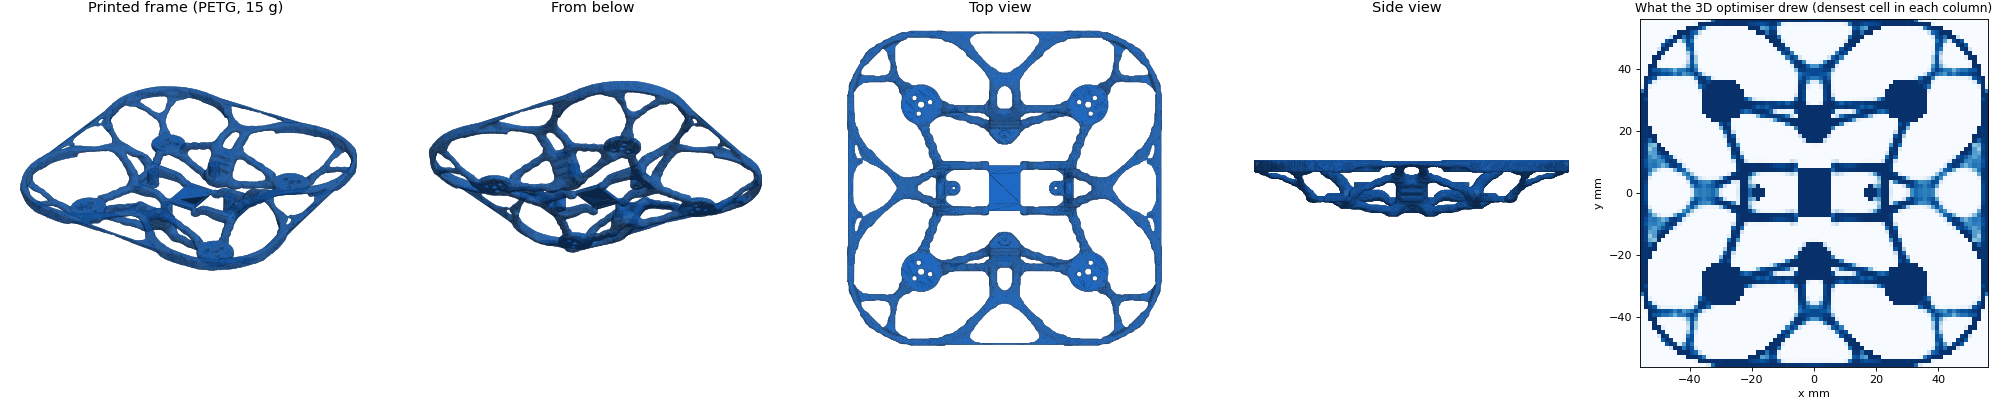
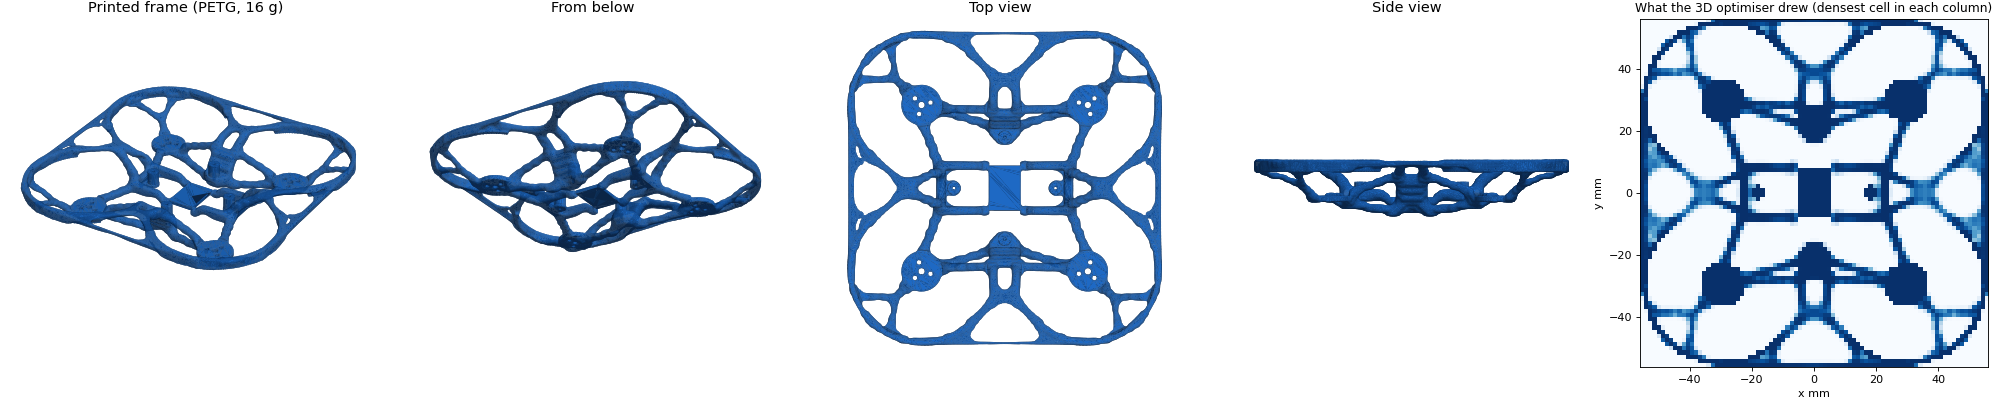
Rewrite the README for v0.2
The README still described v0.1: ducts, an 18 g frame printed without
supports, 45 g ready to fly. It now covers the v0.2 frame (16 g in PETG,
14 g in PA6-CF, 43 g ready to fly, 3.7 min), why it changed, the filament
comparison, what the checks show today (including the two print checks
that fail), and how to rerun the optimiser. Every statement was checked
against the records. The image is re-rendered from the current frame, with
its rim bridges.

diff --git a/README.md b/README.md
@@ -1,68 +1,160 @@
 # PETGasus
 
-A small 3D-printed quadcopter for an adult and a kid to build together. It needs no soldering, prints in one piece in PETG, and flies by sight (no camera or goggles), mostly indoors.
+A small 3D-printed quadcopter for an adult and a kid to build together. It needs no soldering, is designed to print in one piece, and flies by sight (no camera or goggles), mostly indoors.
 
 **[See the design explained, with a 3D build-along →](https://neuman.github.io/PETGasusDrone/)**
 
-![The printed frame, its top view, and the topology optimiser's density field it was drawn from](docs/images/frame.png)
+![The v0.2 frame in perspective, from below, from above and from the side, and the 3D topology optimiser's density field it was drawn from](docs/images/frame.png)
 
 | | |
 |---|---|
-| Frame | 108 × 108 × 15 mm, one PETG print, ~18 g, no supports |
-| Ready to fly | ~45 g, under the FAA's 250 g registration line |
-| Props | 45 mm, each spinning inside its own duct |
-| Flight time | ~3.9 min per 1S 320 mAh battery (estimate) |
-| Electronics | Taken from a BetaFPV Meteor75 Pro kit: plug-in motors, no soldering |
+| Frame | 112 × 112 × 20 mm, one piece, to print with tree supports (not printed yet): ~16 g in PETG, ~14 g in nylon-CF (PA6-CF) |
+| Ready to fly | ~43 g, under the FAA's 250 g registration line |
+| Props | 45 mm, each guarded round its outer side by a solid band about 4 mm tall |
+| Flight time | ~3.7 min per 1S 320 mAh battery (estimate) |
+| Electronics | Taken from a BetaFPV Meteor75 Pro II O4 kit: plug-in motors, no soldering |
 | Control | ExpressLRS radio, Betaflight flight software, self-levelling mode |
-| Cost | $167 for everything, including radio, batteries and charger; $156 for the essentials (everything but the spare props and the strap) |
+| Cost | $167 for the full parts list, including radio, batteries and charger; $156 for the essentials (everything but the spare props and the strap). Both before shipping, at 7 October 2026 prices |
 
 ## Build one
 
 - **[BUILD_GUIDE.md](BUILD_GUIDE.md)** covers the shopping list, the two measurements to take before printing, print settings, assembly, radio binding, Betaflight setup and first flights.
 - **Print files:** [`build/print/frame.3mf`](build/print/frame.3mf) for Snapmaker Orca, Bambu Studio or PrusaSlicer, and [`build/print/frame.stl`](build/print/frame.stl) for anything else.
 
+## Version 0.2: what changed, and why
+
+Version 0.1 had a flat plate, tall ducts with lattice windows, and ribs and spokes
+drawn from a 2.5D optimiser. Posted to r/diydrones, it was reviewed as "still a
+2D design": flat planks butting into each other with no gussets, right angles
+that printed PETG is weak at, ducts tall enough to make propwash, windows that
+added weight, and a frame expected to break after a couple of crashes. The
+review, paraphrased, is in [`inputs/references/`](inputs/references/diydrones-feedback-2026-10-17.md).
+
+Version 0.2 answers it:
+
+- **The frame is a 3D shape found by a topology optimiser**, not drawn by hand.
+  It is told where the motors, props, board, battery and leads must be, what
+  must stay empty, and thirteen ways the frame gets loaded (full thrust, two
+  prop strikes, crashes on the guards from nine directions, and the battery).
+  It decides where a 12 g budget of plastic carries those loads best. The model
+  draws the result as one smooth solid with a fillet at every joint.
+- **Low guards replace the ducts.** Each prop has a solid band about 4 mm tall
+  round the side that meets walls. The optimiser decides what joins them: it
+  closed the four into one rounded rim and tied each motor seat to it with
+  V-shaped spokes.
+- **It prints flat, as it flies, with tree supports.** A scan of print poses on
+  CalculiX's crash stresses found that printing flat loses no strength to the
+  layers: the worst crash tension runs along them. Poses tilted 75-105° would
+  lose up to 14 %.
+- **The filament was chosen by the numbers.** Seven filaments the Snapmaker U1
+  can print went through the same CalculiX vibration and crash checks on the
+  same shape (below).
+- **Published numbers replace guesses.** The kit motor's own load table
+  (66.6 g of thrust, not 46.3 g) and its height (13.6 mm) came from BetaFPV.
+  The flight controller's shape (a cross about 40 mm tip to tip, with its motor
+  sockets underneath) is measured from BetaFPV's photos. The build guide asks
+  you to check it on the real board (A4).
+
+### Which filament
+
+| Filament | Frame | First vibration mode | Drop onto a guard | Wall hit |
+|---|---|---|---|---|
+| **PA6-CF** (the strong print) | 13.8 g | 196 Hz | 8.1 m | 3.7 m/s |
+| PAHT-CF | 13.4 g | 193 Hz | 7.8 m | 3.4 m/s |
+| **PETG** (the everyday print) | 16.2 g | 143 Hz | 2.0 m | 1.7 m/s |
+| ASA | 13.3 g | 176 Hz | 2.0 m | 1.6 m/s |
+| PETG with TPU 95A guard arcs | 16.1 g | 136 Hz | 1.9 m | 1.6 m/s |
+| PETG-CF | 15.8 g | 146 Hz | 1.6 m | 1.6 m/s |
+| PLA | 15.7 g | 169 Hz | 1.6 m | 1.5 m/s |
+| *Limit* | | *200 Hz* | *1 m* | *3 m/s* |
+
+PETG is the everyday filament: it needs nothing extra on the U1 and clears the
+1 m drop. Only the two nylon-CF filaments clear both crash limits, so the crash
+claims (C15, C16) are judged in PA6-CF. No filament reaches C4's 200 Hz. The
+bar stays, in the flight-proven milestone with the hover, thrust and crash tests
+on the real drone. The reasons for each rejection are in
+[`decisions/petg-for-everyday-prints-pa6-cf-for-strong-ones.json`](decisions/petg-for-everyday-prints-pa6-cf-for-strong-ones.json).
+
+The crash numbers are a floor, not a prediction: they ignore the plastic work
+the filament does before it cracks, the floor's give and damping. They also
+move by up to 20 % from one run to the next, because the tet mesher does not
+give the same mesh twice. Fixing that is the next job.
+
 ## How the frame was designed
 
-The plate that holds the motors came out of a 2.5D topology optimisation (SIMP: plate bending plus in-plane stiffness, a hover load and a crash load). The optimiser's raw field had 0.75 mm blades, which are too thin to print. So its load path was redrawn as printable ribbed spokes, and that exact printed shape was checked again with the same finite-element model.
+[`model/topopt3d.py`](model/topopt3d.py) writes the optimiser's problem from the
+model: which cells must be frame (the motor seats, each guard's outer arc, the
+board's posts, the strap's saddle), which must stay empty (the props and the air
+above them, the motors, the board, the battery and its strap, each motor lead's
+path, a screwdriver's way to each motor screw), what plastic under a prop costs
+(its shadow on the downwash), and the load cases. The `solid-fea` pack in
+[`.nopekit/packs/`](.nopekit/packs/solid-fea/) solves it, first on a 2 mm grid and
+then refined on a 1.33 mm one. The field is an input in
+[`inputs/data/`](inputs/data/), and [`model/geometry.py`](model/geometry.py) draws the
+frame from it.
 
-| | Ordinary X frame | PETGasus |
-|---|---|---|
-| First vibration mode | 171 Hz | 282 Hz |
-| Crash stiffness | 1× | ~3.5× |
+The optimiser is never asked whether its own design is good. CalculiX, a
+different solver on a different mesh of the printed surface, judges that
+([`gates/structure.py`](gates/structure.py)): the first vibration mode, with the
+frame held at the board's posts and the strap's saddle, and the drop and wall hit
+the free drone takes before the stress, averaged over 0.5 mm, reaches the
+printed strength. Whether it survives a 10-year-old is the physical drop and
+wall test (P1).
 
-The higher first mode keeps the frame away from the wobble that printed frames are known for. The reasoning, including what was tried and rejected, is in [`decisions/`](decisions/) and [`docs/decisions.md`](docs/decisions.md).
+What was tried and rejected along the way (the optimiser's settings, the
+drawing, the guards, the shadow limit, the filaments) is in
+[`decisions/`](decisions/) and [`docs/decisions.md`](docs/decisions.md).
 
 ## What is proven and what isn't
 
-Every number above comes from the model, [`model/petgasus.py`](model/petgasus.py). Each requirement is a file in [`claims/`](claims/) and has an automated check that must be able to fail. Current state:
+Every number above comes from the model ([`model/petgasus.py`](model/petgasus.py)), the parts list ([`bom/bom.json`](bom/bom.json)) or the CalculiX runs ([`inputs/data/material-comparison.json`](inputs/data/material-comparison.json)). Each claim is a file in [`claims/`](claims/). The measurable claims (C1 to C17) each have an automated check, which counts only once it has been shown to fail on a known-bad design. The A claims are assumptions, and the P claims are tests on a real drone. Current state:
 
-- **Pass (simulation and geometry):** lift, weight, flight time, vibration mode, parts fit with no clashes, screws, motor wire length, printable with no supports, one piece.
-- **Fail:** the $150 budget (C10). The full list is $167; it fits under $150 by skipping the optional spare props, screws and strap.
-- **Assumed, not yet measured (A1–A6):** for example, how much the ducts cost in thrust, and the kit board's size.
-- **Not tested on a real drone yet (P1–P5):** crash drops, hover, Betaflight setup, fit and thrust. Each test is described in its claim file and in the build guide.
+- **Pass (datasheets and geometry):** lift (5.7 times the weight), weight, flight time, no clashes between parts, the board's and the motors' screws, motor wire length, one piece, guard height, the shadow on the props (14.8 % of a disc, 15 % allowed), and a topology field solved for this design.
+- **Fail:**
+  - **The $150 budget (C10).** The full list is $167. The essentials are $156.
+  - **A clean solid (C7).** Where the guard arcs meet on the left and right sides, the rim narrows to a strand 0.66 mm wide, under the 1.26 mm the printer needs.
+  - **Prints on the U1 (C6).** The bridge check finds small ceilings with nothing under them (the largest 12 mm²), and 42 ledges longer than its 2 mm limit (the longest 9.9 mm). Tree supports should hold both up, but the check does not count supports, and nobody has sliced the frame yet to see.
+- **Not yet counted (C4, C15, C16):** CalculiX's vibration and crash checks. A tier-2 check would count them, but the mesh check they rest on gives a different answer each run, because the tet mesher does not make the same mesh twice. Their numbers so far are in the filament table above.
+- **Assumed, not yet measured (A1, A3, A4):** how much thrust the guards and the limbs under the props cost, and the shape of the kit's motor and board. The build guide's two measurements check the motor and the board before printing.
+- **Not tested on a real drone yet (P1–P6):** crash drops and wall hits, hover, Betaflight setup, fit, thrust, and the supports coming off cleanly. Each test is described in its claim file and in the build guide.
+
+The first print waits on C6 and C7, and on the build guide's two measurements (A3, A4).
 
 ## Working on the design
 
 The checks run with [nopekit](https://github.com/neuman/nopekit). In Claude Code, this repo asks for the nopekit plugin: run `/plugin marketplace add neuman/nopekit`, then `/plugin install nopekit@nopekit`. To run the commands below in your own shell, install it with pip as well.
 
 ```sh
+python3 -m venv .venv && . .venv/bin/activate   # Debian and Ubuntu refuse pip into the system Python
 pip install -r requirements.txt
 pip install git+https://github.com/neuman/nopekit
+sudo apt install calculix-ccx         # the solver for the vibration and crash checks
 
-python3 -m nopekit check --tier 1     # rebuild the model and run every check
+python3 -m nopekit check --tier 1     # rebuild the model and run every check but CalculiX's
+python3 -m nopekit check --tier 2     # CalculiX's checks too (about 45 minutes)
 python3 -m nopekit site build         # regenerate the project site
 python3 -m nopekit site serve         # plain-language front page at site/index.html
-python3 tools/run_topopt.py           # re-run the topology optimiser (~6 min)
 ```
 
-Change a number in `model/petgasus.py`, then run `check`. After any model change, refresh the known-good reference with `python3 tools/freeze_known_good.py` before running `check`.
+Change a number in `model/petgasus.py`, then run `check`. Once a change is final and every check passes on it, refresh the known-good reference with `python3 tools/freeze_known_good.py`, then run `check` again. Never freeze a design that fails a check.
+
+A change that moves what the frame must hold or keep clear of makes the topology field stale (C17 fails). Solve it again with the pack's proposer, as its [`PACK.md`](.nopekit/packs/solid-fea/PACK.md) describes: first on the 2 mm grid (`topo_h` 2), then refined on the 1.33 mm one with `--warm` and `--c0-from` set to the 2 mm field. Then point `topology_field` at the new field. With the optional pypardiso installed, the two runs take about 45 minutes.
+
+```sh
+python3 -m nopekit propose fea.topopt3d --timeout 14400 -- \
+    --problem build/topopt3d/problem.npz --variant <name>
+```
 
 | Path | What it is |
 |---|---|
-| `model/` | The single source of truth: parameters, geometry (manifold3d), topology optimisation, assembly |
-| `gates/` | The project's own checks; each reads its limit from a claim |
+| `model/` | The single source of truth: parameters, geometry (manifold3d), the topology problem, assembly |
+| `gates/` | The project's own checks (`structure.py` runs CalculiX); most read their limit from a claim |
 | `claims/` | What must be true, with acceptance limits and reasons |
+| `requirements/`, `milestones/`, `groups/` | What the drone is for, which claims each milestone needs, and how the site's map groups them |
+| `decisions/` | What was chosen, what was rejected, and why |
+| `inputs/` | Datasheets, references, and the optimiser's fields (`inputs/data/`) |
 | `selftest/` | Known-good design and known-bad fixtures every check must catch |
 | `bom/` | Parts, prices and sources |
+| `.nopekit/packs/solid-fea/` | The topology optimiser and the CalculiX tooling |
 | `views/`, `site/` | The project site (`site/index.html` is the plain-language front page). Pushing `site/` to `main` publishes it to GitHub Pages |
 | `.nopekit/verdicts/` | Check results, kept as evidence |
